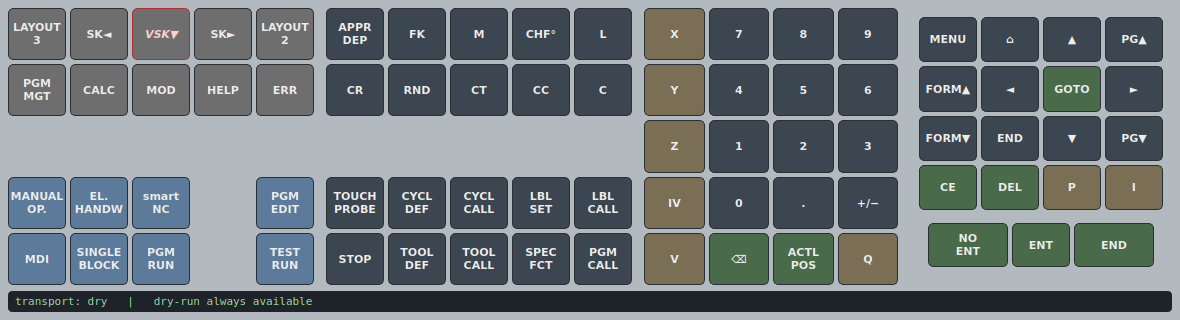
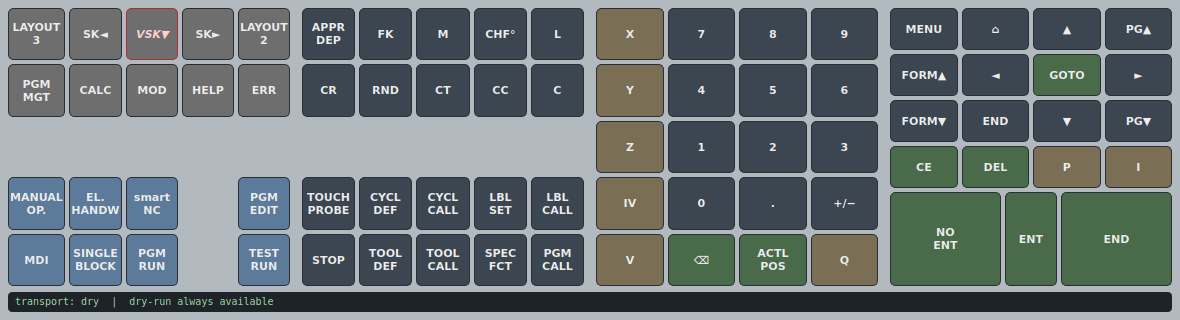
keypad: add vertical NC panel (qml_07), make it the default layout
The desktop launcher (tncvbcntl.exe) opens the VERTICAL keypad (keypad.exe -nv),
not the horizontal one. Add that layout from the recovered qml_07 and select it
by default; keep the horizontal panel under --layout horizontal.

Both panels share the exact same operations/key codes (tnckeymap.py unchanged);
only the arrangement differs - vertical is a single 5-column stack of blocks.
Verified all 77 vertical ops resolve in the keymap, and confirmed end-to-end via
the vertical widget's transport (MOD opened the Settings window on the live VM).

diff --git a/keypad/tnc_keypad.py b/keypad/tnc_keypad.py
@@ -3,17 +3,19 @@
 tnc_keypad.py - a native, cross-platform on-screen keypad for the HEIDENHAIN
 TNC 640 programming station running under VirtualBox on UNIX-like systems.
 
-It reproduces the button layout of the original keypad.exe NC panel
-("NC Steuerungsbedienfeld horizontal") and sends, for every button, the same
-keypress the original would - by default through VirtualBox's putScancodes
-(exactly what keypad.exe does for a VBox VM). No HEIDENHAIN code or icons are
-used; labels are plain text and the key codes are documented in
+It reproduces the button layout of the original keypad.exe NC panel - both the
+vertical panel (keypad.exe's "-nv", the one the desktop launcher opens) and the
+horizontal panel ("-n") - and sends, for every button, the same keypress the
+original would: by default through VirtualBox's putScancodes, exactly what
+keypad.exe does for a VBox VM (IKeyboard::putScancodes). No HEIDENHAIN code or
+icons are used; labels are plain text and the key codes are documented in
 docs/12-keypad-keymap.md.
 
 Run:
-    python3 tnc_keypad.py --vm TNC640                 # send to running VM
+    python3 tnc_keypad.py --vm TNC640                 # vertical panel -> running VM
+    python3 tnc_keypad.py --layout horizontal --vm TNC640
     python3 tnc_keypad.py --transport dry             # just log, no VM
-    python3 tnc_keypad.py --screenshot out.png        # render layout headless
+    python3 tnc_keypad.py --layout vertical --screenshot v.png   # render headless
 
 Requires: PySide6  (pip install PySide6-Essentials)
 """
@@ -24,38 +26,63 @@ import tnckeymap
 import transport as tp
 
 # ---------------------------------------------------------------------------
-# Layout, taken verbatim from the keypad QML (qml_08). Each inner list is one
-# row, left to right; "leer" is a blank filler that keeps the grid geometry.
+# HORIZONTAL layout (keypad QML qml_08, "NC Steuerungsbedienfeld horizontal").
+# A row of panels; each inner list is one row, "leer" is a blank filler.
 # ---------------------------------------------------------------------------
-GRID1 = [  # screen/softkey nav, popups, operating modes
+H_GRID1 = [
     ["F11", "F9", "VSKDOWN", "F10", "F12"],
     ["PGMMGT", "CALC", "MOD", "HELP", "ERR"],
     ["leer", "leer", "leer", "leer", "leer"],
     ["MANUAL", "HANDW", "SMART", "leer", "EDIT"],
     ["TI", "SINGLE", "AUTO", "leer", "SIMU"],
 ]
-GRID2 = [  # contour/path, cycles, tools, program
+H_GRID2 = [
     ["APRDEP", "FK", "M", "CHF", "LINE"],
     ["CR", "RND", "CT", "CC", "C"],
     ["leer", "leer", "leer", "leer", "leer"],
     ["TPR", "CYCLDEF", "CYCLCALL", "LBLSET", "LBLCALL"],
     ["STOP", "TOOLDEF", "TOOLCALL", "SPEC-FCT", "PGMCALL"],
 ]
-GRID3 = [  # axes + numeric entry
+H_GRID3 = [
     ["X", "7", "8", "9"],
     ["Y", "4", "5", "6"],
     ["Z", "1", "2", "3"],
     ["IV", "0", ",", "+/-"],
     ["V", "BS", "ACTPOS", "Q"],
 ]
-GRID4 = [  # navigation / editing cluster
+H_GRID4 = [
     ["NB_PGDN", "HOME", "CURUP", "PGUP"],
     ["FRMUP", "CURLEFT", "GOTO", "CURRIGHT"],
     ["FRMDOWN", "CEND", "CURDOWN", "PGDN"],
     ["CE", "ZDEL", "POLAR", "INC"],
 ]
-# entry row under GRID4: NO ENT (1), ENT (2-wide), END (1)
-ENTRY = ["NO\nENT", "ENT", "ZEND"]
+
+# ---------------------------------------------------------------------------
+# VERTICAL layout (keypad QML qml_07, "NC Steuerungsbedienfeld vertikal").
+# A single 5-column-wide stack of blocks; blocks are separated by a gap.
+# Each block is a grid of rows. A block "ENT" is the NO ENT / ENT(2-wide) / END
+# row. "leer" keeps a cell blank to preserve geometry.
+# ---------------------------------------------------------------------------
+V_BLOCKS = [
+    [["F11", "F9", "VSKDOWN", "F10", "F12"]],
+    [["PGMMGT", "CALC", "MOD", "HELP", "ERR"]],
+    [["MANUAL", "HANDW", "SMART", "leer", "EDIT"],
+     ["TI", "SINGLE", "AUTO", "leer", "SIMU"]],
+    [["APRDEP", "FK", "M", "CHF", "LINE"],
+     ["CR", "RND", "CT", "CC", "C"]],
+    [["TPR", "CYCLDEF", "CYCLCALL", "LBLSET", "LBLCALL"],
+     ["STOP", "TOOLDEF", "TOOLCALL", "SPEC-FCT", "PGMCALL"]],
+    [["leer", "X", "7", "8", "9"],
+     ["leer", "Y", "4", "5", "6"],
+     ["leer", "Z", "1", "2", "3"],
+     ["leer", "IV", "0", ",", "+/-"],
+     ["leer", "V", "BS", "ACTPOS", "Q"],
+     ["leer", "CE", "ZDEL", "POLAR", "INC"]],
+    "ENT",   # special row: leer, NO ENT, ENT(2-wide), END
+    [["leer", "NB_PGDN", "HOME", "CURUP", "PGUP"],
+     ["leer", "FRMUP", "CURLEFT", "GOTO", "CURRIGHT"],
+     ["leer", "FRMDOWN", "CEND", "CURDOWN", "PGDN"]],
+]
 
 # colour families (subtle, just to group the panel like the real one)
 FAMILY = {
@@ -67,22 +94,21 @@ FAMILY = {
 
 
 def family_color(op):
-    for _, (members, color) in FAMILY.items():
+    for members, color in FAMILY.values():
         if op in members:
             return color
     return "#3C4650"  # default dark slate (number/function keys)
 
 
-def _build_qt(args):
-    from PySide6 import QtCore, QtGui, QtWidgets
+def _build_qt():
+    from PySide6 import QtCore, QtWidgets
 
     class KeyButton(QtWidgets.QPushButton):
         def __init__(self, op, on_press):
             k = tnckeymap.KEYS.get(op)
-            label = k.label if k else op
-            super().__init__(label)
+            super().__init__(k.label if k else op)
             self.op = op
-            self.setMinimumSize(QtCore.QSize(58, 44))
+            self.setMinimumSize(QtCore.QSize(52, 42))
             self.setSizePolicy(QtWidgets.QSizePolicy.Expanding,
                                QtWidgets.QSizePolicy.Expanding)
             mapped = bool(k and k.mapped)
@@ -98,82 +124,106 @@ def _build_qt(args):
             self.setToolTip("\n".join(tip))
             color = family_color(op)
             border = "#2A2F36" if mapped else "#B03030"
-            self.setStyleSheet(
-                f"QPushButton{{background:{color};color:#EDEDED;border:1px solid {border};"
-                f"border-radius:5px;font:600 11px 'DejaVu Sans';padding:1px;}}"
-                f"QPushButton:hover{{background:#7C8A99;}}"
-                f"QPushButton:pressed{{background:#26415E;}}")
+            css = (f"QPushButton{{background:{color};color:#EDEDED;border:1px solid {border};"
+                   f"border-radius:5px;font:600 11px 'DejaVu Sans';padding:1px;}}"
+                   f"QPushButton:hover{{background:#7C8A99;}}"
+                   f"QPushButton:pressed{{background:#26415E;}}")
             if not mapped:
-                self.setStyleSheet(self.styleSheet() +
-                                   "QPushButton{color:#FFD0D0;font-style:italic;}")
+                css += "QPushButton{color:#FFD0D0;font-style:italic;}"
+            self.setStyleSheet(css)
             self.clicked.connect(lambda: on_press(op))
 
-    def make_grid(rows, on_press, span_last_entry=False):
+    def spacer():
+        w = QtWidgets.QWidget()
+        w.setMinimumSize(52, 42)
+        w.setSizePolicy(QtWidgets.QSizePolicy.Expanding, QtWidgets.QSizePolicy.Expanding)
+        return w
+
+    def make_grid(rows, on_press):
+        """A QGridLayout widget from a 2D op list. 'leer' -> blank cell."""
         w = QtWidgets.QWidget()
         g = QtWidgets.QGridLayout(w)
         g.setSpacing(4)
         g.setContentsMargins(0, 0, 0, 0)
         for r, row in enumerate(rows):
             for c, op in enumerate(row):
-                if op == "leer":
-                    spacer = QtWidgets.QWidget()
-                    spacer.setMinimumSize(58, 44)
-                    spacer.setSizePolicy(QtWidgets.QSizePolicy.Expanding,
-                                         QtWidgets.QSizePolicy.Expanding)
-                    g.addWidget(spacer, r, c)
-                else:
-                    g.addWidget(KeyButton(op, on_press), r, c)
+                g.addWidget(spacer() if op == "leer" else KeyButton(op, on_press), r, c)
         return w
 
+    def make_entry_row(on_press, leading_blank):
+        """The NO ENT / ENT(2-wide) / END row (optionally with a leading blank)."""
+        w = QtWidgets.QWidget()
+        g = QtWidgets.QGridLayout(w)
+        g.setSpacing(4)
+        g.setContentsMargins(0, 0, 0, 0)
+        col = 0
+        if leading_blank:
+            g.addWidget(spacer(), 0, col); col += 1
+        g.addWidget(KeyButton("NO\nENT", on_press), 0, col); col += 1
+        g.addWidget(KeyButton("ENT", on_press), 0, col, 1, 2); col += 2  # double width
+        g.addWidget(KeyButton("ZEND", on_press), 0, col)
+        return w
+
+    def build_horizontal(on_press):
+        root = QtWidgets.QWidget()
+        h = QtWidgets.QHBoxLayout(root)
+        h.setSpacing(12)
+        h.setContentsMargins(0, 0, 0, 0)
+        h.addWidget(make_grid(H_GRID1, on_press))
+        h.addWidget(make_grid(H_GRID2, on_press))
+        h.addWidget(make_grid(H_GRID3, on_press))
+        col = QtWidgets.QWidget()
+        v = QtWidgets.QVBoxLayout(col)
+        v.setSpacing(4)
+        v.setContentsMargins(0, 0, 0, 0)
+        v.addWidget(make_grid(H_GRID4, on_press))
+        v.addWidget(make_entry_row(on_press, leading_blank=False))
+        h.addWidget(col)
+        return root
+
+    def build_vertical(on_press):
+        root = QtWidgets.QWidget()
+        v = QtWidgets.QVBoxLayout(root)
+        v.setSpacing(13)            # larger gap between blocks, like the QML
+        v.setContentsMargins(0, 0, 0, 0)
+        for block in V_BLOCKS:
+            if block == "ENT":
+                v.addWidget(make_entry_row(on_press, leading_blank=True))
+            else:
+                v.addWidget(make_grid(block, on_press))
+        return root
+
     class KeyPad(QtWidgets.QWidget):
-        def __init__(self, transport):
+        def __init__(self, transport, layout):
             super().__init__()
             self.transport = transport
-            self.setWindowTitle("TNC 640 - virtual NC keyboard (TNC640unix)")
+            self.setWindowTitle(f"TNC 640 keypad ({layout}) - TNC640unix")
             self.setStyleSheet("QWidget{background:#B2BAC0;}")
             root = QtWidgets.QVBoxLayout(self)
             root.setContentsMargins(8, 8, 8, 8)
-
-            panels = QtWidgets.QHBoxLayout()
-            panels.setSpacing(12)
-            panels.addWidget(make_grid(GRID1, self.press), 0)
-            panels.addWidget(make_grid(GRID2, self.press), 0)
-            panels.addWidget(make_grid(GRID3, self.press), 0)
-
-            # column on the right: grid4 + entry row
-            col = QtWidgets.QVBoxLayout()
-            col.setSpacing(4)
-            col.addWidget(make_grid(GRID4, self.press), 1)
-            entry = QtWidgets.QGridLayout()
-            entry.setSpacing(4)
-            entry.addWidget(KeyButton("NO\nENT", self.press), 0, 0)
-            ent_btn = KeyButton("ENT", self.press)
-            entry.addWidget(ent_btn, 0, 1, 1, 2)  # double width
-            entry.addWidget(KeyButton("ZEND", self.press), 0, 3)
-            ew = QtWidgets.QWidget()
-            ew.setLayout(entry)
-            col.addWidget(ew, 0)
-            cw = QtWidgets.QWidget()
-            cw.setLayout(col)
-            panels.addWidget(cw, 0)
-
-            root.addLayout(panels)
+            root.setSpacing(6)
+            panel = build_vertical(self.press) if layout == "vertical" else build_horizontal(self.press)
+            root.addWidget(panel)
 
             self.status = QtWidgets.QLabel("")
-            self.status.setStyleSheet("QLabel{background:#1E232A;color:#9FE0A0;"
-                                      "font:11px 'DejaVu Sans Mono';padding:4px;border-radius:4px;}")
+            self.status.setWordWrap(True)
+            self._ok_css = ("QLabel{background:#1E232A;color:#9FE0A0;"
+                            "font:10px 'DejaVu Sans Mono';padding:4px;border-radius:4px;}")
+            self._err_css = self._ok_css.replace("#9FE0A0", "#E0A0A0")
+            self.status.setStyleSheet(self._ok_css)
             ok, msg = transport.available()
-            self.status.setText(f"transport: {transport.name}   |   {msg}")
+            self.status.setText(f"transport: {transport.name}  |  {msg}")
             if not ok:
-                self.status.setStyleSheet(self.status.styleSheet().replace("#9FE0A0", "#E0A0A0"))
+                self.status.setStyleSheet(self._err_css)
             root.addWidget(self.status)
 
         def press(self, op):
             try:
                 msg = self.transport.send(op)
+                self.status.setStyleSheet(self._ok_css)
             except tp.TransportError as e:
                 msg = f"ERROR sending {op!r}: {e}"
-                self.status.setStyleSheet(self.status.styleSheet().replace("#9FE0A0", "#E0A0A0"))
+                self.status.setStyleSheet(self._err_css)
             self.status.setText(msg)
             print(msg, flush=True)
 
@@ -182,6 +232,8 @@ def _build_qt(args):
 
 def main(argv=None):
     ap = argparse.ArgumentParser(description="Native TNC 640 keypad")
+    ap.add_argument("--layout", choices=["vertical", "horizontal"], default="vertical",
+                    help="panel layout (default vertical, as the desktop launcher opens)")
     ap.add_argument("--transport", choices=["vbox", "heuinput", "dry"], default="vbox")
     ap.add_argument("--vm", default="TNC640", help="VirtualBox VM name (vbox transport)")
     ap.add_argument("--vboxmanage", default="VBoxManage")
@@ -194,21 +246,20 @@ def main(argv=None):
     transport = tp.make_transport(args.transport, vm=args.vm,
                                   vboxmanage=args.vboxmanage, heu_cmd=args.heu_cmd)
 
-    QtWidgets, KeyPad = _build_qt(args)
+    QtWidgets, KeyPad = _build_qt()
     app = QtWidgets.QApplication(sys.argv[:1])
-    win = KeyPad(transport)
+    win = KeyPad(transport, args.layout)
+
+    size = (300, 940) if args.layout == "vertical" else (1180, 320)
+    win.resize(*size)
+    win.show()
 
     if args.screenshot:
-        win.resize(1180, 320)
-        win.show()
         app.processEvents()
         pix = win.grab()
         pix.save(args.screenshot, "PNG")
         print(f"wrote {args.screenshot} ({pix.width()}x{pix.height()})")
         return 0
-
-    win.resize(1180, 320)
-    win.show()
     return app.exec()
 
 

diff --git a/keypad/README.md b/keypad/README.md
@@ -5,15 +5,17 @@ programming station** running under VirtualBox on UNIX‑like systems (Linux,
 macOS, …). It replaces the Windows‑only `keypad.exe` ("steering panel") with a
 clean‑room reimplementation.
 
-![keypad layout](preview.png)
-
-It reproduces the button **layout** of the original NC panel
-(`keypad.exe`'s *"NC Steuerungsbedienfeld horizontal"*) and, for every button,
-sends the **same keypress** the original would — by default through
-VirtualBox's `putScancodes`, which is exactly what `keypad.exe` itself does for
-a VBox VM (`IKeyboard::putScancodes`). No HEIDENHAIN code or icons are used;
-labels are plain text and every key code is documented in
+It reproduces **both** original NC panel layouts and, for every button, sends the
+**same keypress** the original would — by default through VirtualBox's
+`putScancodes`, which is exactly what `keypad.exe` itself does for a VBox VM
+(`IKeyboard::putScancodes`). No HEIDENHAIN code or icons are used; labels are plain
+text and every key code is documented in
 [`../docs/12-keypad-keymap.md`](../docs/12-keypad-keymap.md).
+
+| **Vertical** (`--layout vertical`, default) | **Horizontal** (`--layout horizontal`) |
+|:---:|:---:|
+| from `keypad.exe -nv`, the panel the desktop launcher opens | from `keypad.exe -n` |
+| ![vertical](preview-vertical.png) | ![horizontal](preview.png) |
 
 > Clean‑room: the mapping was reconstructed from the keypad's QML (button →
 > `operation` string), the guest keymap (`keymap_te530_*_vbox.xml`), the
@@ -33,14 +35,17 @@ pip install -r requirements.txt                   # PySide6
 ## Run
 
 ```sh
-# Send keys to a running VirtualBox VM named "TNC640" (default transport):
+# Vertical panel (default) -> running VirtualBox VM named "TNC640":
 python3 tnc_keypad.py --vm TNC640
+
+# Horizontal panel instead:
+python3 tnc_keypad.py --layout horizontal --vm TNC640
 
 # Develop / inspect codes without a VM (prints what would be sent):
 python3 tnc_keypad.py --transport dry
 
-# Render the layout to a PNG and exit (works headless):
-QT_QPA_PLATFORM=offscreen python3 tnc_keypad.py --screenshot preview.png
+# Render a layout to a PNG and exit (works headless):
+QT_QPA_PLATFORM=offscreen python3 tnc_keypad.py --layout vertical --screenshot preview-vertical.png
 ```
 
 Hover any button to see its `operation`, the AT scancodes, and the `heuinput`
@@ -75,7 +80,7 @@ PC keyboard (they reach the control unchanged).
 |---|---|
 | `tnckeymap.py` | The mapping: `operation` → Linux keycode (+ modifiers) → AT set‑1 scancodes / `heuinput` tokens. Run it directly to dump the full table and self‑test. |
 | `transport.py` | The three delivery backends (`vbox`, `heuinput`, `dry`). |
-| `tnc_keypad.py` | The PySide6 GUI: the panel layout + wiring. |
+| `tnc_keypad.py` | The PySide6 GUI: both panel layouts (`vertical` = qml_07, `horizontal` = qml_08) + wiring. Both drive the exact same key codes. |
 | `requirements.txt` | PySide6. |
 
 ## Validation status

diff --git a/docs/12-keypad-keymap.md b/docs/12-keypad-keymap.md
@@ -206,7 +206,10 @@ A working clean‑room keypad lives in [`../keypad/`](../keypad/) (PySide6 / Qt 
 - `tnckeymap.py` — the full `operation → Linux keycode (+modifiers) → AT set‑1 scancodes /
   heuinput tokens` table, with a self‑test. Run it to dump the table.
 - `transport.py` — `vbox` (default, `putScancodes`), `heuinput`, and `dry` backends.
-- `tnc_keypad.py` — the GUI, reproducing the horizontal NC layout (`qml_08`) panel‑for‑panel.
+- `tnc_keypad.py` — the GUI, reproducing **both** original NC panels:
+  `--layout vertical` (`qml_07`, what `keypad.exe -nv` / the desktop launcher opens — the default)
+  and `--layout horizontal` (`qml_08`, `keypad.exe -n`). Both layouts use the **same** `operation`
+  set and therefore the same key codes; only the arrangement differs.
 
 **Live validation (vbox transport, against the running TNC 640 in demo mode):**
 